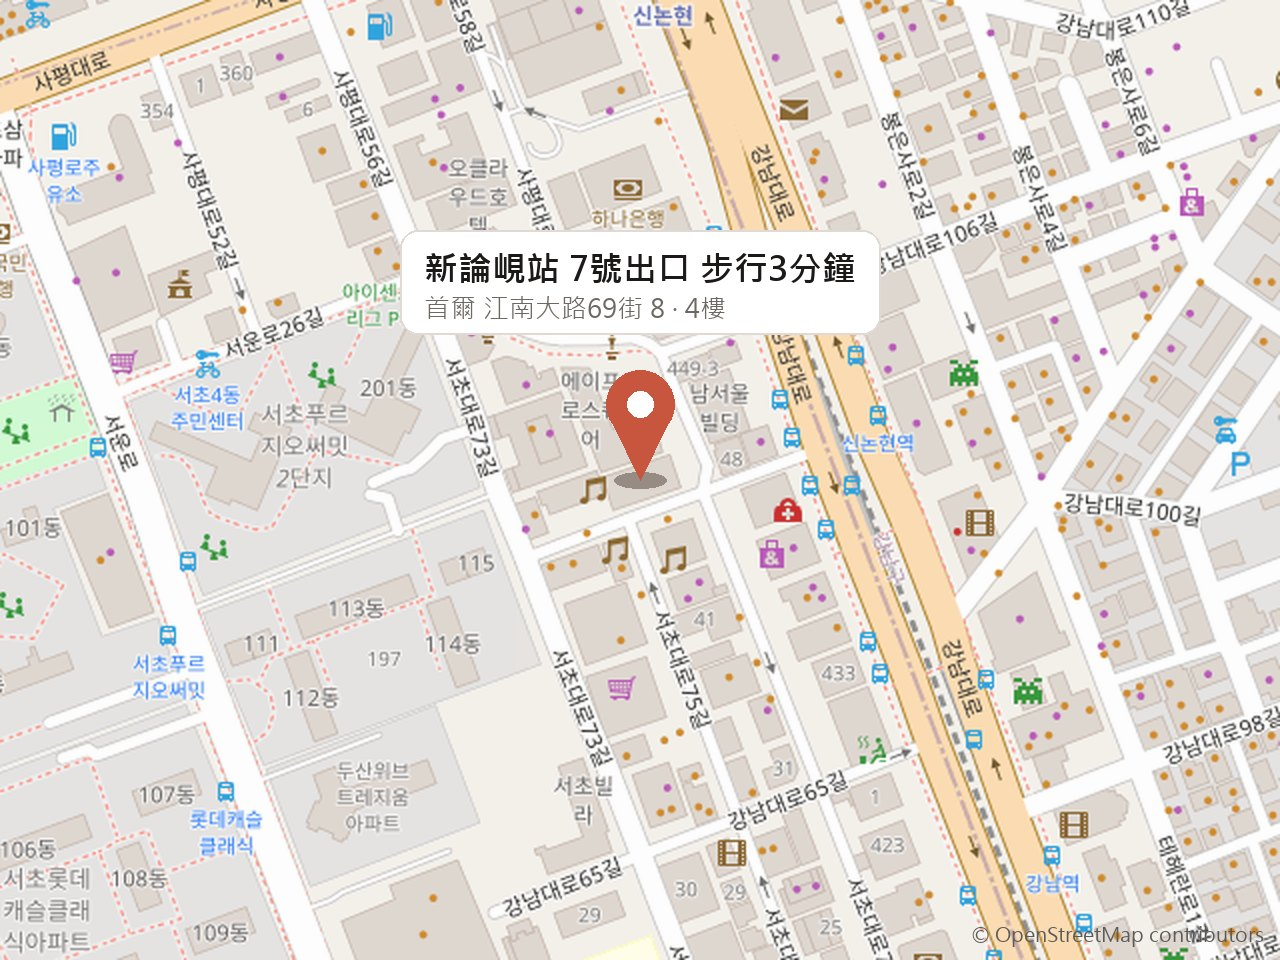
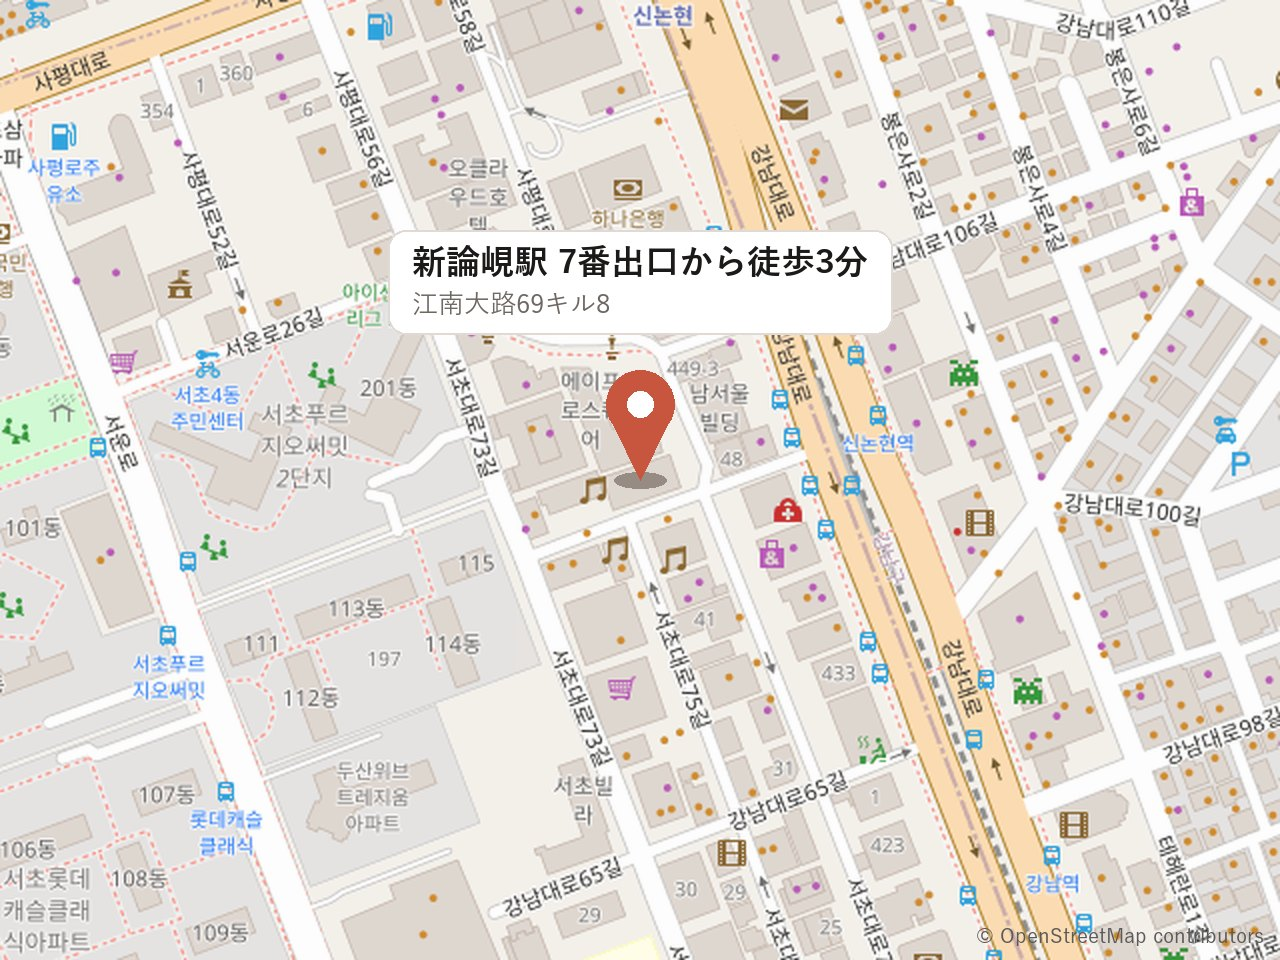
Claude: 울쎄라 일본어판 올리디아 디자인 미리보기 (픽셀 추가)

Changed region(s): [[0.2812, 0.25, 0.7188, 0.3438], [0.75, 0.9688, 1.0, 1.0]]

diff --git a/jp-ulthera/index.html b/jp-ulthera/index.html
@@ -182,10 +182,13 @@ body{font-family:"Noto Sans JP",sans-serif;word-break:normal;line-break:strict;o
 .dock .btn small{font-size:11.5px;font-weight:600;opacity:.9}
 .why .pic img{aspect-ratio:5/4;object-fit:cover;object-position:50% 80%}
 .why .hand{margin-bottom:6px}
-.copy h1{color:#fff;text-shadow:0 2px 16px rgba(0,0,0,.45)}
-.copy h1 .g{color:#a9c2ff}
-.copy .pr .u{color:#fff;text-shadow:0 2px 10px rgba(0,0,0,.5)}
-.copy .pr .p{color:#8fb0ff;text-shadow:0 2px 14px rgba(0,0,0,.35)}
+/* 11/26 일본팀 표지 사진(밝은 배경) → 진한 글자 */
+.copy h1{color:#141619;text-shadow:0 0 16px rgba(255,255,255,.7)}
+.copy h1.nm{font-size:clamp(28px,8.6vw,42px);letter-spacing:-.05em;margin-top:2px}
+.hero .ai{color:rgba(20,22,25,.45)}
+.copy h1 .g{color:#5a6273}
+.copy .pr .u{color:#141619;text-shadow:0 0 10px rgba(255,255,255,.8)}
+.copy .pr .p{color:var(--blue);text-shadow:0 0 14px rgba(255,255,255,.6)}
 
 /* ③-2 야간 진료 */
 .night{background:radial-gradient(ellipse at 80% 0%,#33407a 0%,#141a2e 58%,#0c1020 100%);color:#fff;text-align:center;padding:46px 18px 40px}
@@ -242,11 +245,11 @@ body{font-family:"Noto Sans JP",sans-serif;word-break:normal;line-break:strict;o
 
 <!-- ① 표지 -->
 <section>
-  <div class="hero" id="hero"><img src="img/hero.jpg?v=11261548" alt="">
+  <div class="hero" id="hero"><img src="img/hero.jpg?v=11261700" alt="">
     <div class="copy">
       <h1><span class="g">切らずに</span><br>引き上げる</h1>
-      <span class="lb">ウルセラ 300ショット・ソウル江南</span>
-      <h1>ウルセラ特価</h1>
+      <span class="lb">ウルセラ特価・ソウル江南</span>
+      <h1 class="nm">ウルセラピープライム</h1>
       <div class="pr"><span class="u">300ショット</span><span class="p">49<small>万ウォン</small></span></div>
       <p class="sub">顔全体・オープン特価</p>
     </div>
@@ -264,12 +267,12 @@ body{font-family:"Noto Sans JP",sans-serif;word-break:normal;line-break:strict;o
 
 <!-- ③ 효과 -->
 <section class="fx">
-  <p class="q"><b>「下がった輪郭」</b>を<b>「すっきり」</b>引き上げ</p>
+  <p class="q"><b>「たるんだ輪郭」</b>を<b>「すっきり」</b>引き上げ</p>
   <span class="hand">SMAS層から</span>
   <h2><span class="gt">ウルセラ リフト</span></h2>
   <div class="orb">
     <div class="ring"></div>
-    <div class="c"><img src="img/c.jpg?v=11261548" alt=""></div>
+    <div class="c"><img src="img/c.jpg?v=11261700" alt=""></div>
     <div class="lb l1">フェイスライン<br>引き締め<small>jawline</small></div>
     <div class="lb l2">頬のたるみ<br>ケア<small>cheek lift</small></div>
     <div class="lb l3">肌のハリ・<br>弾力アップ<small>elasticity</small></div>
@@ -312,7 +315,7 @@ body{font-family:"Noto Sans JP",sans-serif;word-break:normal;line-break:strict;o
 <section class="real">
   <span class="badge"></span>
   <span class="hand">安心して任せられるように</span>
-  <h2>アメリカ正規品<br>ウルセラ プライム</h2>
+  <h2>ドイツ(メルツ社)正規品<br>ウルセラピープライム</h2>
   <p>超音波画像で肌の層を確認しながら<br><b>部位ごとに深さを変えて</b>照射します。</p>
   <div class="skin">
     <img src="img/layer.jpg?v=11261548" alt="">
@@ -329,7 +332,7 @@ body{font-family:"Noto Sans JP",sans-serif;word-break:normal;line-break:strict;o
 <section class="rec">
   <div class="head"><small>RECOMMEND</small><h2><span class="gt">こんな方に</span><span style="color:var(--blue)">おすすめ</span></h2></div>
   <div class="body">
-    <img src="img/rec.jpg?v=11261548" alt="">
+    <img src="img/rec.jpg?v=11261700" alt="">
     <ul>
       <li><b>フェイスラインが</b><br>ぼやけてきた方</li>
       <li><b>頬のたるみ</b>で<br>疲れて見える方</li>
@@ -344,11 +347,11 @@ body{font-family:"Noto Sans JP",sans-serif;word-break:normal;line-break:strict;o
 <section class="room">
   <div class="head">
     <h2>新論峴駅で受ける<br><b>プライベートな施術空間</b></h2>
-    <p>相談室と個室の施術室、施術後に身だしなみを<br>整えるパウダールームまで揃っています。</p>
+    <p>カウンセリングルームと個室の施術室、施術後に身だしなみを<br>整えるパウダールームまで揃っています。</p>
   </div>
   <div class="grid">
     <figure class="w"><img src="img/g_lobby.jpg?v=11261548" alt=""><figcaption>待合スペース</figcaption></figure>
-    <figure><img src="img/g_consult.jpg?v=11261548" alt=""><figcaption>相談室</figcaption></figure>
+    <figure><img src="img/g_consult.jpg?v=11261548" alt=""><figcaption>カウンセリングルーム</figcaption></figure>
     <figure><img src="img/g_room.jpg?v=11261548" alt=""><figcaption>施術室</figcaption></figure>
     <figure><img src="img/g_desk.jpg?v=11261548" alt=""><figcaption>受付</figcaption></figure>
     <figure><img src="img/g_powder.jpg?v=11261548" alt=""><figcaption>パウダールーム</figcaption></figure>
@@ -359,7 +362,7 @@ body{font-family:"Noto Sans JP",sans-serif;word-break:normal;line-break:strict;o
 <section class="way">
   <span class="hand">アクセス</span>
   <h2>新論峴駅 7番出口 徒歩3分</h2>
-  <div class="map"><img src="img/map.jpg?v=11261548" alt="地図：新論峴駅 7番出口 徒歩3分"></div>
+  <div class="map"><img src="img/map.jpg?v=11261700" alt="地図：新論峴駅 7番出口 徒歩3分"></div>
   <dl class="rows">
     <div><dt>地下鉄</dt><dd>9号線 新論峴駅 7番出口から徒歩3分</dd></div>
     <div><dt>徒歩</dt><dd>江南駅から徒歩約10分</dd></div>
